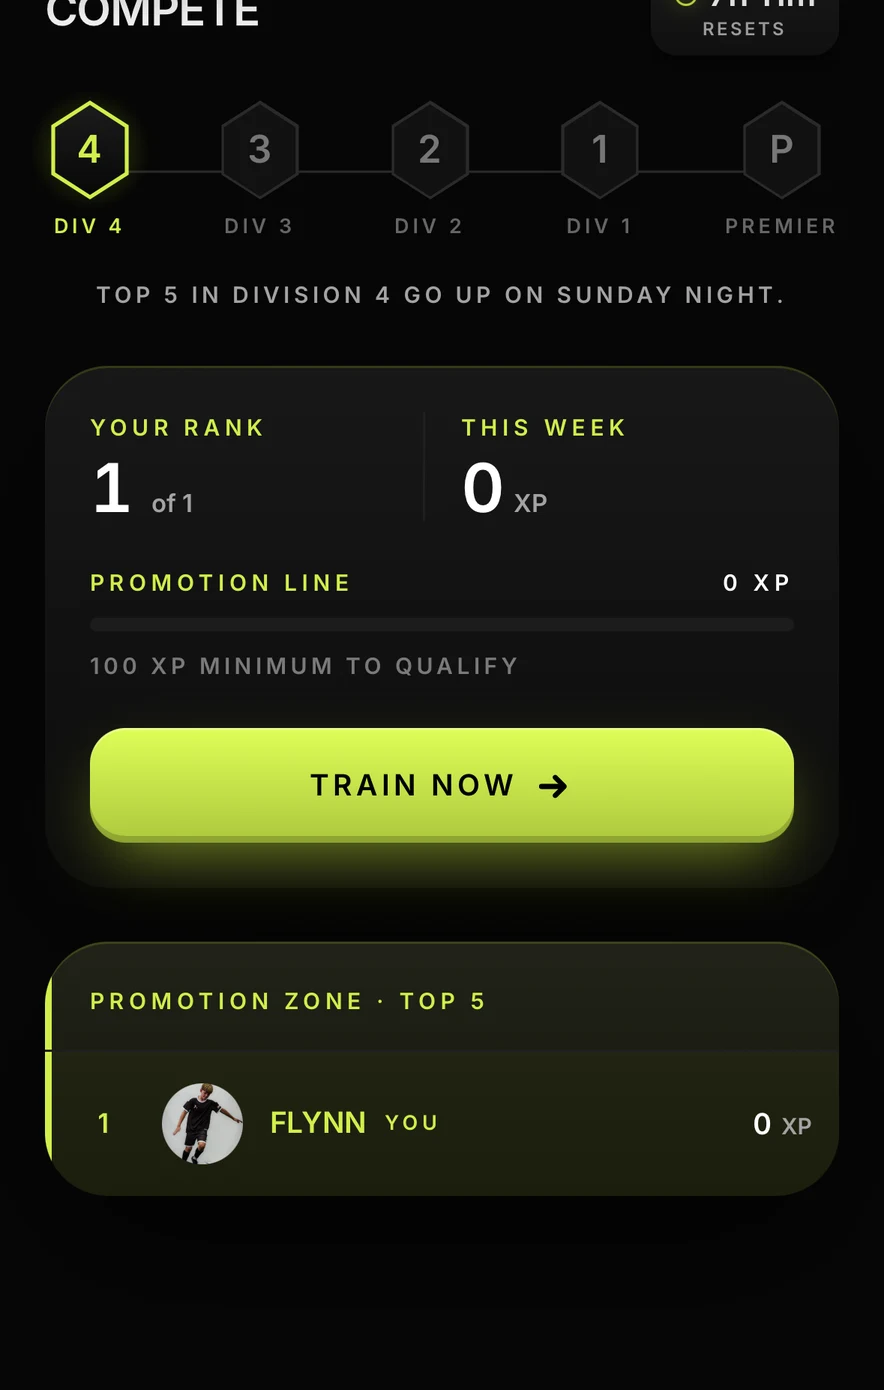
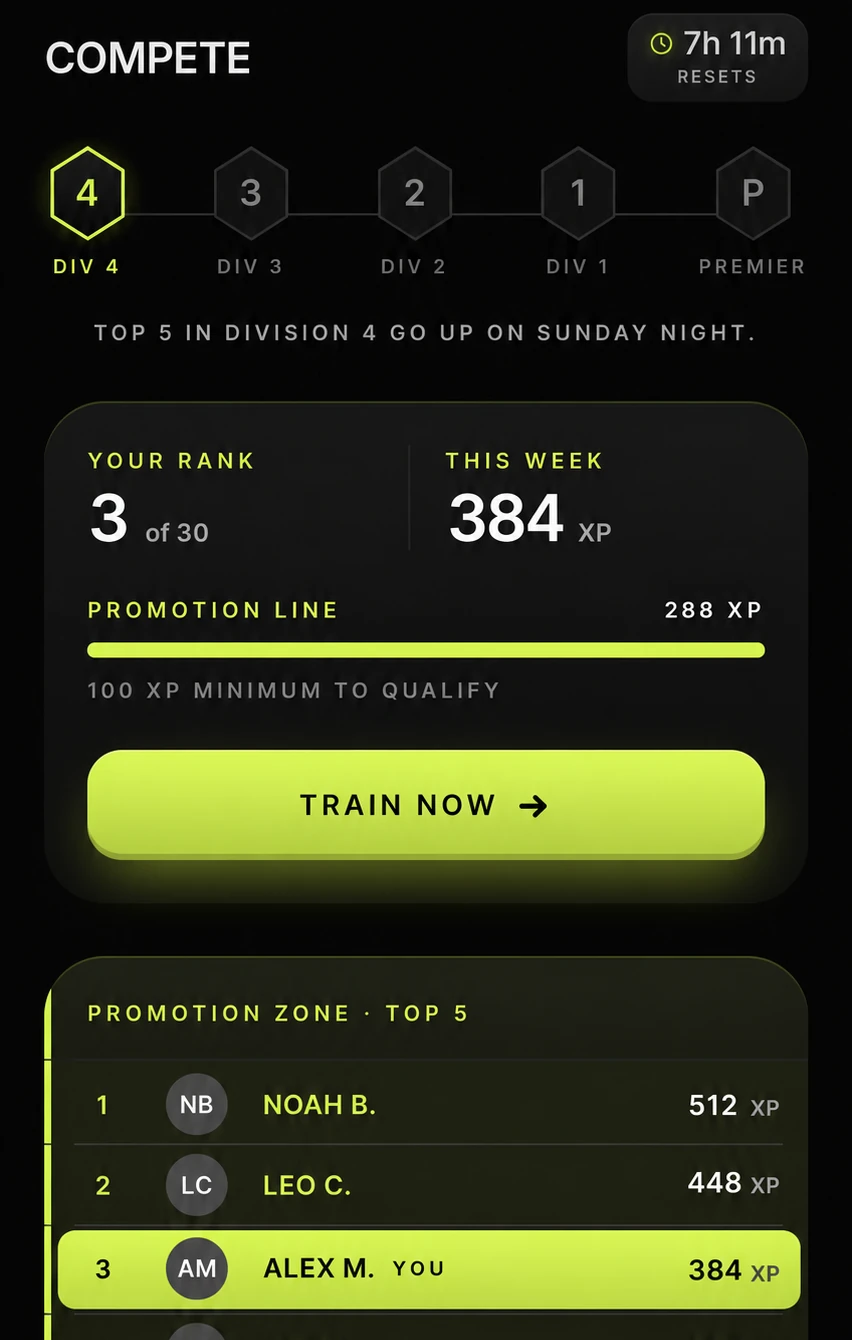
Replace app screenshots with new Home and Compete screens
Claude-Session: https://claude.ai/code/session_01EueqKH8hPVWd46HcJncVBW

diff --git a/public/index.html b/public/index.html
@@ -73,7 +73,7 @@ nav ul a{text-decoration:none}nav ul a:hover{color:var(--text)}
 .strip span b{color:var(--lime);font-weight:700}
 
 /* screens gallery */
-.shots{display:grid;grid-template-columns:repeat(3,1fr);gap:26px;margin-top:50px}
+.shots{display:grid;grid-template-columns:repeat(3,1fr);gap:26px;margin-top:50px;align-items:start}
 .shot{text-align:center}
 .shot .phone{max-width:300px;margin:0 auto 22px}
 .shot h3{font-size:30px;font-weight:800;margin-bottom:8px}
@@ -342,7 +342,7 @@ body.tm-lock{overflow:hidden}
       </div>
     </div>
     <div class="hero-phones">
-      <div class="phone p1"><img src="/img/app-home.webp" alt="XEOTRN home screen showing the active Foundation Touch program, streak and XP" width="884" height="1390"></div>
+      <div class="phone p1"><img src="/img/app-home.webp" alt="XEOTRN home screen showing the active Foundation Touch program, streak and XP" width="826" height="1299"></div>
       <div class="phone p2"><img src="/img/app-timer.webp" alt="XEOTRN training timer, set 1 of 3" width="884" height="1390"></div>
       <img class="hero-rex" src="https://utvxmutwqmmvyovljubi.supabase.co/storage/v1/object/public/site-assets/rex.webp" alt="REX, the XEOTRN AI coach mascot" width="560" height="720">
     </div>
@@ -375,7 +375,7 @@ body.tm-lock{overflow:hidden}
         <p>Work and rest intervals run for you. Eyes on the ball, not on a stopwatch.</p>
       </div>
       <div class="shot">
-        <div class="phone"><img src="/img/app-compete.webp" alt="Compete screen showing Division 4, rank and weekly XP" loading="lazy" width="884" height="1390"></div>
+        <div class="phone"><img src="/img/app-compete.webp" alt="Compete screen showing Division 4, rank and weekly XP" loading="lazy" width="852" height="1340"></div>
         <h3>Climb the Divisions</h3>
         <p>Earn XP all week. Finish in the top 5 and you go up on Sunday night.</p>
       </div>
@@ -397,7 +397,7 @@ body.tm-lock{overflow:hidden}
     </div>
     <div class="rex-art">
       <img class="rex-big" src="https://utvxmutwqmmvyovljubi.supabase.co/storage/v1/object/public/site-assets/rex.webp" alt="REX, the XEOTRN AI coach" loading="lazy" width="560" height="720">
-      <div class="phone"><img src="/img/app-home2.webp" alt="Next tier progress and the Ask REX card in the XEOTRN app" loading="lazy" width="884" height="699"></div>
+      <div class="phone"><img src="/img/app-home2.webp" alt="Next tier progress and the Ask REX card in the XEOTRN app" loading="lazy" width="826" height="570"></div>
     </div>
   </div>
 </section>
